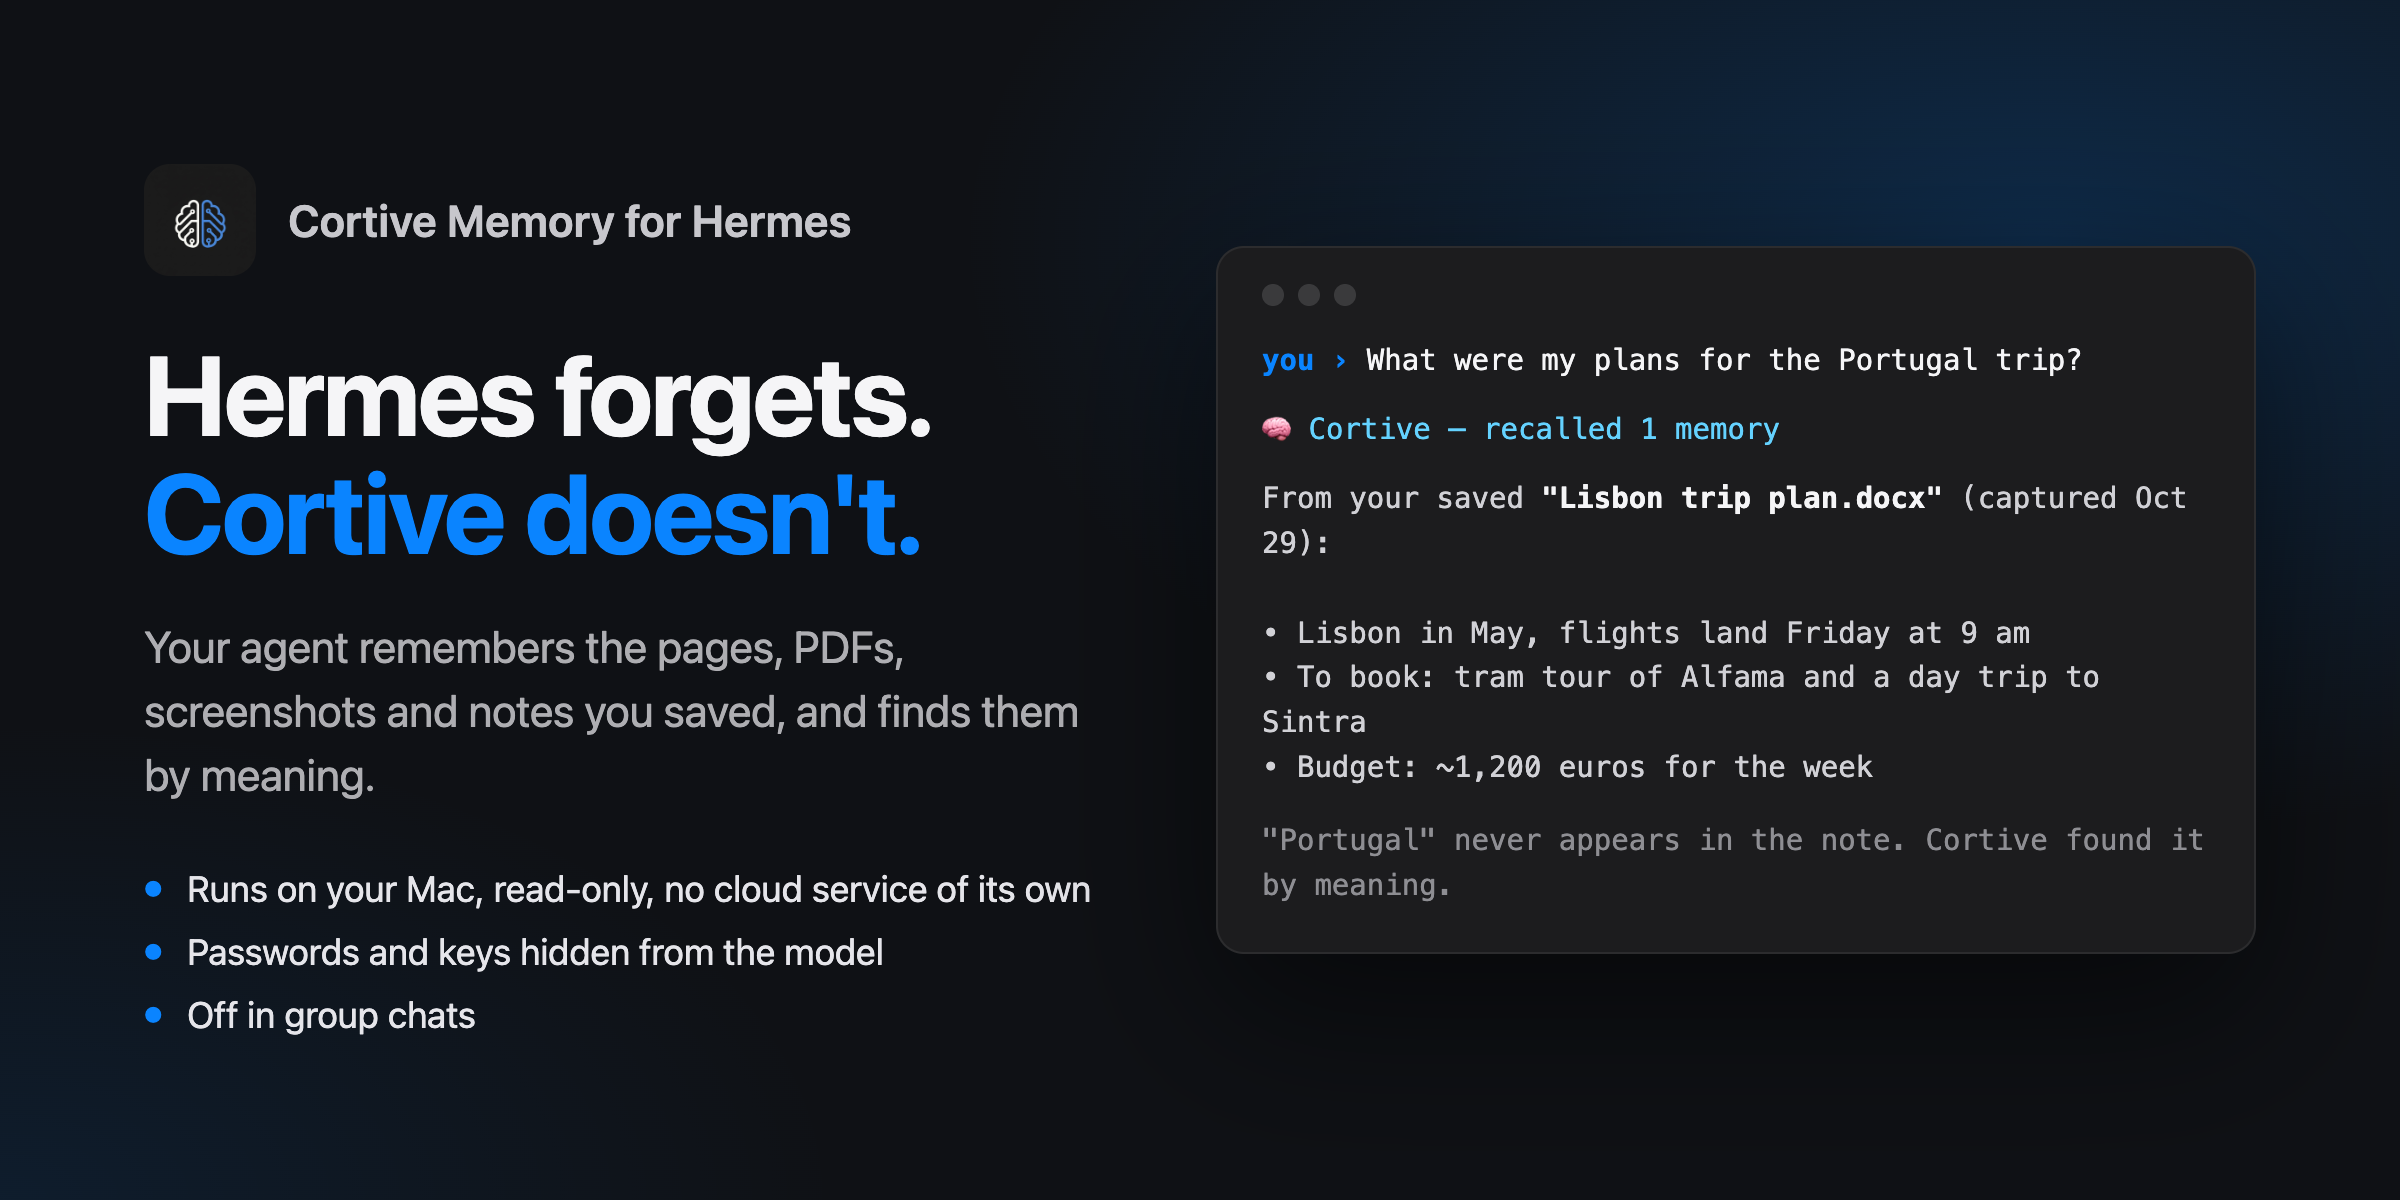
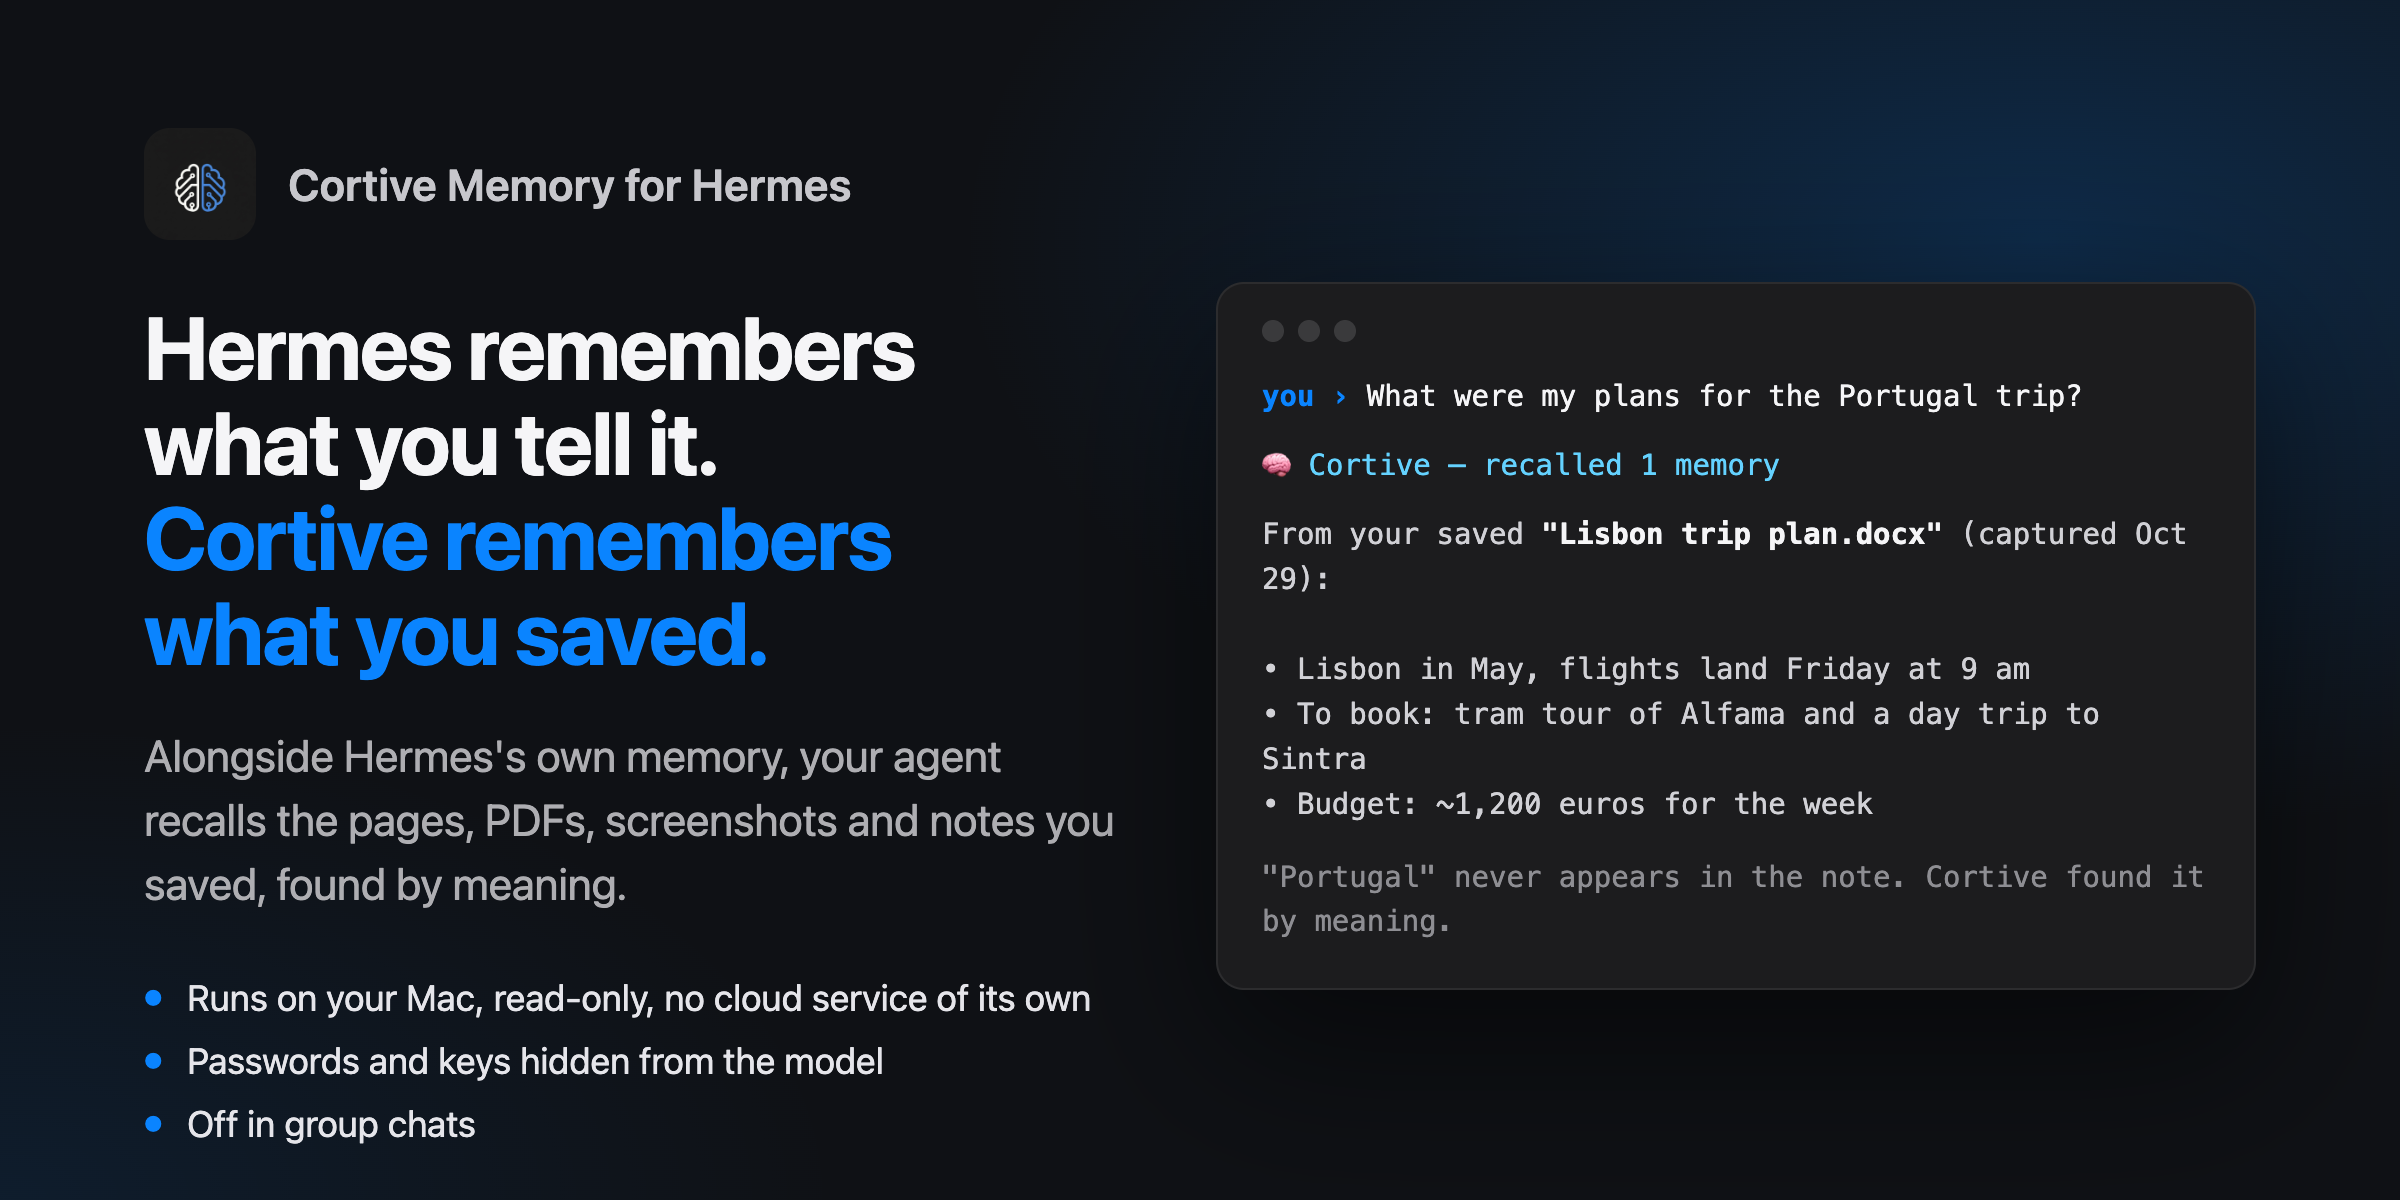
Tagline: Cortive adds to Hermes's memory, it doesn't replace it
Hermes keeps its own built-in memory (MEMORY.md / USER.md), and memory providers run alongside it. "Hermes forgets" undersold that and read as a dig at Hermes. The new line says what each one remembers: what you tell Hermes, and what you saved in Cortive.

diff --git a/docs/src/banner.html b/docs/src/banner.html
@@ -11,7 +11,7 @@
   .brand { display: flex; align-items: center; gap: 16px; margin-bottom: 30px; }
   .brand img { width: 56px; height: 56px; border-radius: 13px; }
   .brand span { font-size: 22px; font-weight: 600; letter-spacing: .2px; color: #c7c7cc; }
-  h1 { font-size: 56px; line-height: 1.05; font-weight: 700; letter-spacing: -1.2px; }
+  h1 { font-size: 44px; line-height: 1.08; font-weight: 700; letter-spacing: -1px; }
   h1 em { font-style: normal; color: #0a84ff; }
   p.sub { margin-top: 22px; font-size: 22px; line-height: 1.45; color: #aeaeb2; max-width: 520px; }
   ul { margin-top: 30px; list-style: none; display: grid; gap: 10px; font-size: 18px; color: #e5e5ea; }
@@ -27,8 +27,8 @@
 </style></head><body><div class="wrap">
   <div>
     <div class="brand"><img src="logo.png" alt=""><span>Cortive Memory for Hermes</span></div>
-    <h1>Hermes forgets.<br><em>Cortive doesn't.</em></h1>
-    <p class="sub">Your agent remembers the pages, PDFs, screenshots and notes you saved, and finds them by meaning.</p>
+    <h1>Hermes remembers<br>what you tell it.<br><em>Cortive remembers<br>what you saved.</em></h1>
+    <p class="sub">Alongside Hermes's own memory, your agent recalls the pages, PDFs, screenshots and notes you saved, found by meaning.</p>
     <ul>
       <li>Runs on your Mac, read-only, no cloud service of its own</li>
       <li>Passwords and keys hidden from the model</li>

diff --git a/README.md b/README.md
@@ -2,9 +2,9 @@
 
 ![Cortive Memory for Hermes](docs/banner.png)
 
-**Hermes forgets. Cortive doesn't.**
+**Hermes remembers what you tell it. Cortive remembers what you saved.**
 
-[Cortive](https://github.com/KadenDevAi/cortive-releases) is a private knowledge base for your Mac. It keeps the web pages, PDFs, screenshots, voice memos, documents and clipboard snippets you capture, and finds them again by meaning, with an on-device model. This plugin makes that library Hermes's long-term memory. Ask Hermes about something you read last month, and it answers from what you actually saved, with the date and the source.
+[Cortive](https://github.com/KadenDevAi/cortive-releases) is a private knowledge base for your Mac. It keeps the web pages, PDFs, screenshots, voice memos, documents and clipboard snippets you capture, and finds them again by meaning, with an on-device model. This plugin adds that library to Hermes's memory, alongside the built-in memory Hermes already keeps. Ask Hermes about something you read last month, and it answers from what you actually saved, with the date and the source.
 
 - **Recall without being asked.** Before each reply, Hermes gets up to three relevant captures (1,200 characters at most) from your library. With the Cortive app running, recall judges relevance by meaning: on 50 everyday prompts ("write a haiku", "convert 72°F") it attached something to 7, while still recalling the right capture for 48 of 51 questions about saved material. Without the app it only recalls when your message refers to your saved material ("my notes on…", "I saved…", "remember…"), because word matches alone can't judge relevance.
 - **Three tools for digging deeper:**
